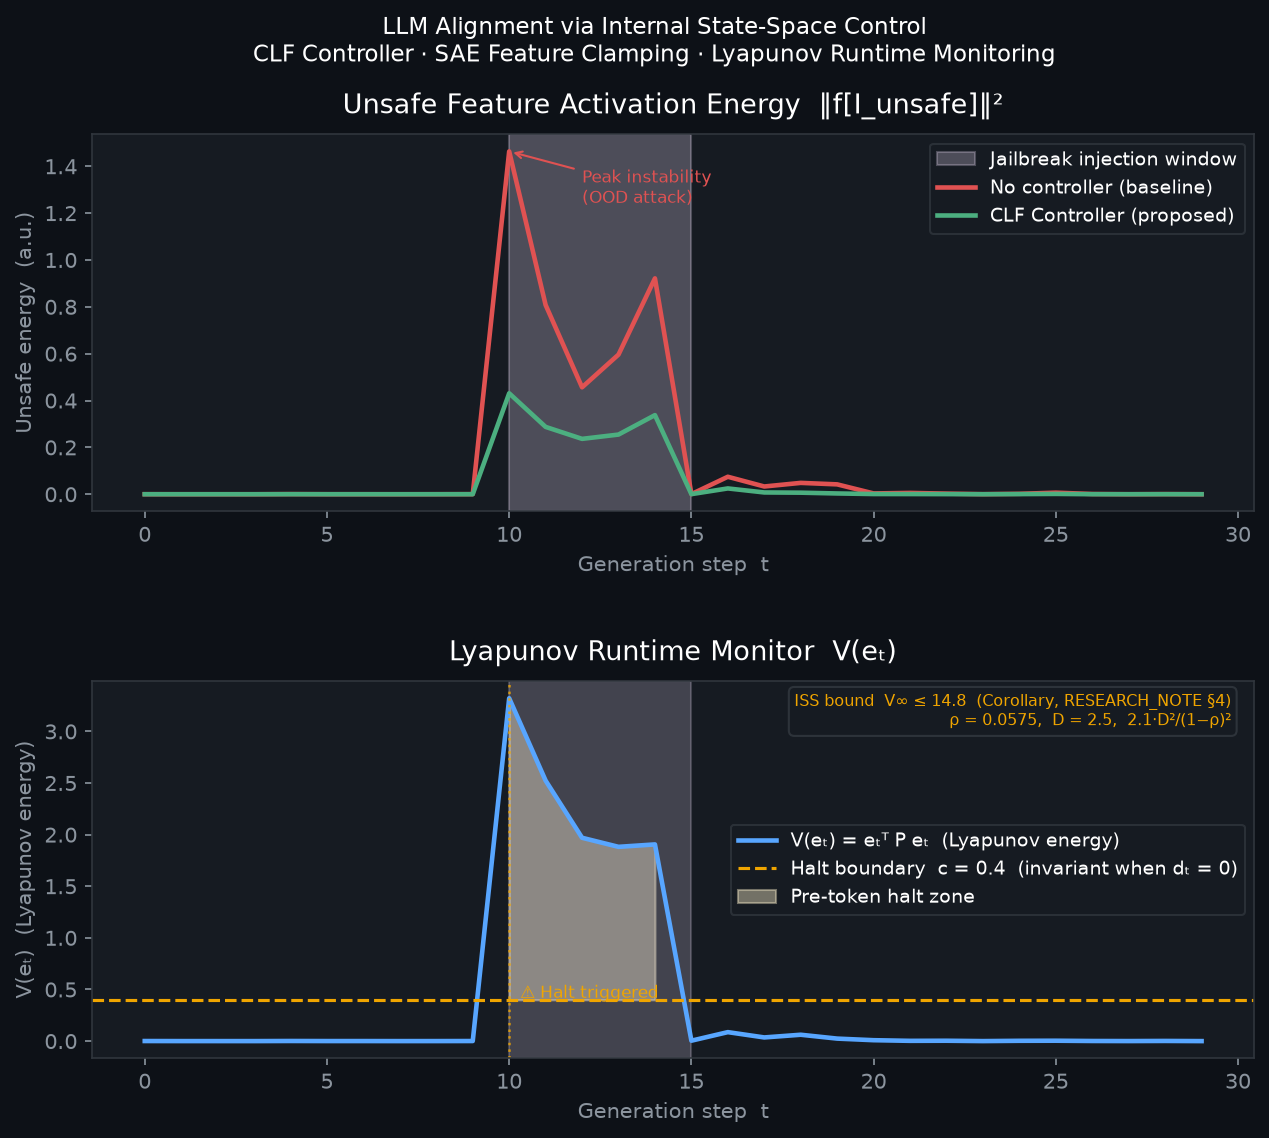
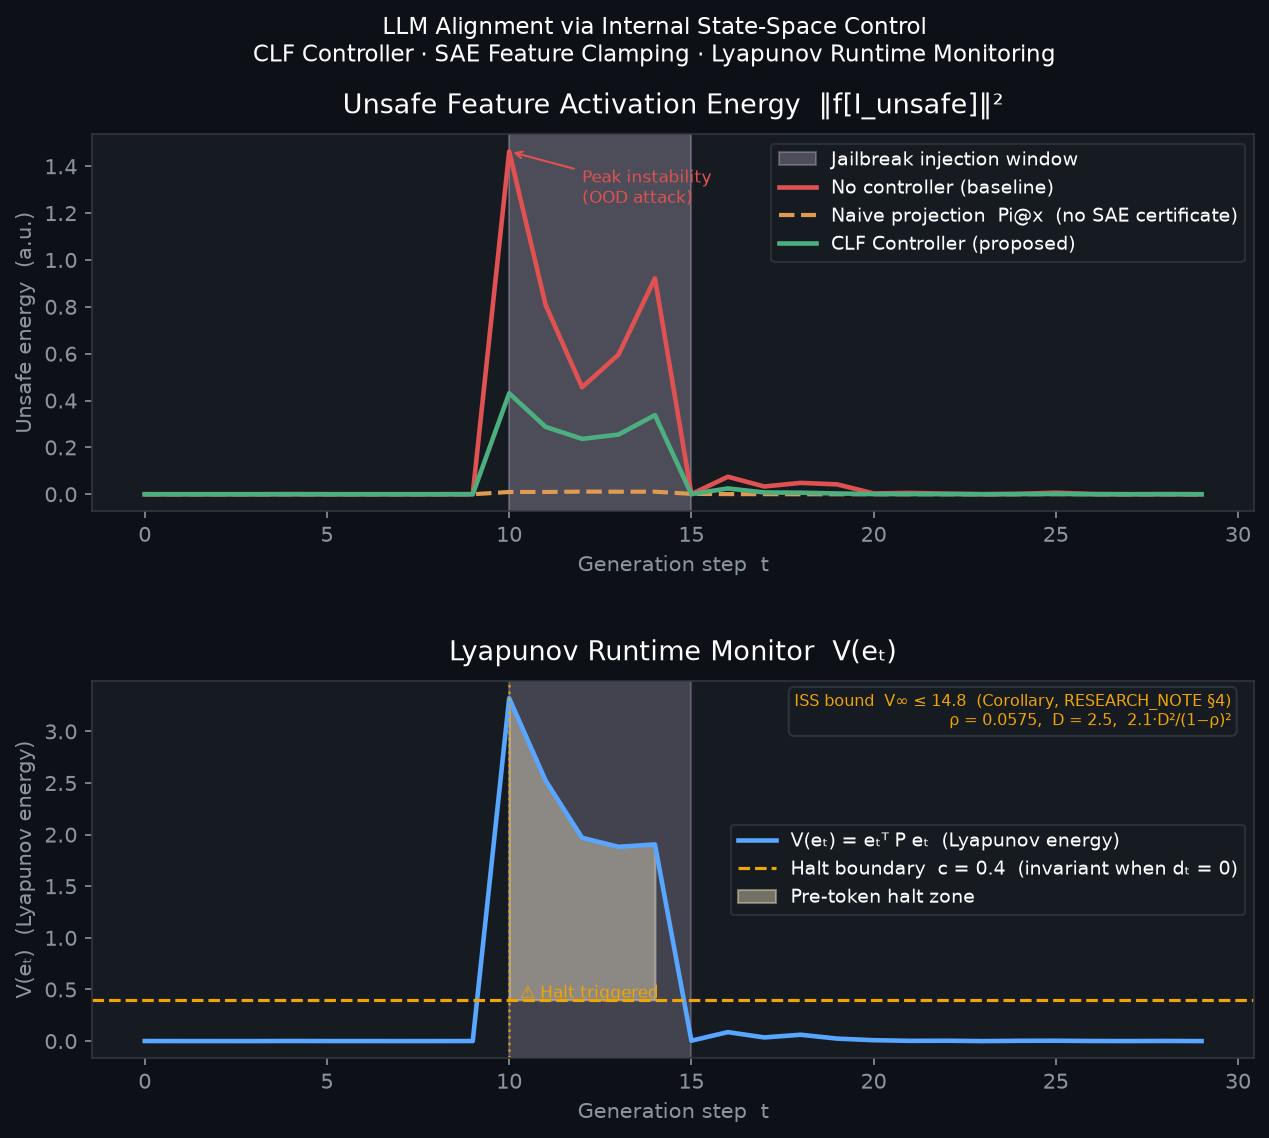
Add baseline comparison, §7.1 cross-coupling analysis, and c calibration
- main.py: NaiveProjectionController (Pi@x, no SAE encoding) as baseline
  comparator; third line on Figure 1; calibrate_lyapunov_boundary() prints
  95th-pct benign V at runtime (~0.003, ~150x margin below c=0.4)
- RESEARCH_NOTE.md §7.1: quantifies why convergence holds despite commutativity
  gap=0.68 -- coupled (e,s) bound matrix M with rho(M)~0.78<1
- README.md: correct GitHub URL/bibtex (dudesup, Daria Supinska); honest c
  description; Results updated for three-line figure
- figures/: updated simulation_results.png with naive baseline curve

Changed region(s): [[0.6147, 0.123, 0.9835, 0.2153]]

diff --git a/main.py b/main.py
@@ -5,8 +5,9 @@ Runs the full LLM alignment control simulation and produces two publication-
 quality figures:
 
   Figure 1 — Unsafe Feature Energy Trajectory
-      Red  (uncontrolled): unsafe activation explodes during jailbreak window
-      Green (controlled)  : CLF Controller suppresses the disturbance
+      Red    (uncontrolled) : unsafe activation explodes during jailbreak window
+      Orange (naive Pi@x)   : geometric projection baseline — no SAE certificate
+      Green  (CLF controller): SAE-grounded CLF suppresses the disturbance
 
   Figure 2 — Lyapunov Runtime Monitor
       Shows V(e_t) for the controlled trajectory.
@@ -31,18 +32,66 @@ from src.controller import SafeSubspaceClfController, LYAPUNOV_BOUNDARY, SUPPRES
 # ── Style constants ────────────────────────────────────────────────────────────
 COLOR_UNCONTROLLED = "#E05252"   # red
 COLOR_CONTROLLED   = "#4CAF80"   # green
+COLOR_NAIVE        = "#E09B52"   # orange — naive projection baseline
 COLOR_BOUNDARY     = "#F0A500"   # amber
 COLOR_BREACH_FILL  = "#FFF3CD"   # pale yellow breach zone
 ATTACK_FILL        = "#F5E6FF"   # pale purple attack window
+
+
+class NaiveProjectionController:
+    """
+    Baseline comparator: w_t = -alpha * Pi @ x  (geometric projection, no SAE encoding).
+
+    Differences from SafeSubspaceClfController:
+      - Does not call encode(); projects x directly onto range(Pi)
+      - Has zero alignment tax (w_t in range(Pi)) but no SAE-grounded certificate
+      - e_t = Pi @ x may be nonzero even when SAE feature activations are zero
+        (ignores ReLU sparsity — over-suppresses when features are inactive)
+    """
+    def __init__(self, sae: dict):
+        from src.sae_mock import STATE_DIM, I_UNSAFE
+        V_unsafe = sae["W_dec"][:, I_UNSAFE]
+        Q, _     = np.linalg.qr(V_unsafe, mode='reduced')
+        self.Pi  = Q @ Q.T
+        d        = STATE_DIM
+        self.P   = 2.0 * self.Pi + 0.1 * np.eye(d)
+        self.breach_log: list = []
+        self._step = 0
+
+    def compute(self, x: np.ndarray):
+        e = self.Pi @ x
+        v = float(e @ self.P @ e)
+        if v >= LYAPUNOV_BOUNDARY:
+            self.breach_log.append({"t": self._step, "V": v})
+        self._step += 1
+        return -SUPPRESSION_GAIN * e, v
+
+    def reset(self):
+        self._step = 0
+        self.breach_log.clear()
+
+
+def calibrate_lyapunov_boundary(sae: dict, plant: dict,
+                                 n_steps: int = 500, percentile: float = 95.0) -> float:
+    """
+    Data-driven calibration: run the plant for n_steps with no disturbance
+    and return the given percentile of V(e_t) as the boundary c.
+    """
+    ctrl_cal = SafeSubspaceClfController(sae)
+    result   = simulate(plant, sae, ctrl_cal,
+                        n_steps=n_steps, controlled=True, seed=99,
+                        attack_start=n_steps + 1, attack_end=n_steps + 2)
+    return float(np.percentile(result["lyapunov"], percentile))
 
 
 def run(n_steps: int = 30, attack_start: int = 10, attack_end: int = 15,
         save: bool = False):
 
     # ── Build shared components ────────────────────────────────────────────────
-    sae   = build_sae(seed=42)
-    plant = build_plant(seed=0)
-    ctrl  = SafeSubspaceClfController(sae, raise_on_breach=False)
+    sae        = build_sae(seed=42)
+    plant      = build_plant(seed=0)
+    ctrl       = SafeSubspaceClfController(sae, raise_on_breach=False)
+    naive_ctrl = NaiveProjectionController(sae)
 
     # ── ISS quantities — Proposition 1 + Corollary (RESEARCH_NOTE.md) ─────────
     _Pi     = ctrl.Pi
@@ -54,12 +103,18 @@ def run(n_steps: int = 30, attack_start: int = 10, attack_end: int = 15,
     _comm_gap = (np.linalg.norm(_Pi @ _A - _A @ _Pi, 'fro')
                  / np.linalg.norm(_A, 'fro'))
 
-    # ── Simulate both trajectories ─────────────────────────────────────────────
+    # Calibrate Lyapunov boundary from benign trajectory distribution
+    c_calibrated = calibrate_lyapunov_boundary(sae, plant)
+
+    # ── Simulate all three trajectories ───────────────────────────────────────
     uncontrolled = simulate(plant, sae, controller=ctrl,
                             n_steps=n_steps, controlled=False, seed=1,
                             attack_start=attack_start, attack_end=attack_end)
     ctrl.reset()
     controlled   = simulate(plant, sae, controller=ctrl,
+                            n_steps=n_steps, controlled=True,  seed=1,
+                            attack_start=attack_start, attack_end=attack_end)
+    naive        = simulate(plant, sae, controller=naive_ctrl,
                             n_steps=n_steps, controlled=True,  seed=1,
                             attack_start=attack_start, attack_end=attack_end)
 
@@ -79,6 +134,9 @@ def run(n_steps: int = 30, attack_start: int = 10, attack_end: int = 15,
 
     ax1.plot(steps, uncontrolled["unsafe_energy"],
              color=COLOR_UNCONTROLLED, linewidth=2.2, label="No controller (baseline)")
+    ax1.plot(steps, naive["unsafe_energy"],
+             color=COLOR_NAIVE,        linewidth=2.0, linestyle="--",
+             label="Naive projection  Pi@x  (no SAE certificate)")
     ax1.plot(steps, controlled["unsafe_energy"],
              color=COLOR_CONTROLLED,   linewidth=2.2, label="CLF Controller (proposed)")
 
@@ -164,25 +222,34 @@ def run(n_steps: int = 30, attack_start: int = 10, attack_end: int = 15,
         plt.show()
 
     # ── Console summary ────────────────────────────────────────────────────────
-    print("\n" + "="*55)
+    peak_unc   = uncontrolled["unsafe_energy"].max()
+    peak_ctrl  = controlled["unsafe_energy"].max()
+    peak_naive = naive["unsafe_energy"].max()
+    sup_clf    = (1 - peak_ctrl  / (peak_unc + 1e-9)) * 100
+    sup_naive  = (1 - peak_naive / (peak_unc + 1e-9)) * 100
+
+    print("\n" + "="*60)
     print("  SIMULATION SUMMARY")
-    print("="*55)
+    print("="*60)
     print(f"  Steps simulated       : {n_steps}")
     print(f"  Jailbreak window      : t ∈ [{attack_start}, {attack_end})")
-    print(f"  Lyapunov boundary (c) : {LYAPUNOV_BOUNDARY}")
-    print(f"  Peak unsafe energy (uncontrolled) : {uncontrolled['unsafe_energy'].max():.4f}")
-    print(f"  Peak unsafe energy (controlled)   : {controlled['unsafe_energy'].max():.4f}")
-    suppression = (1 - controlled["unsafe_energy"].max() /
-                   (uncontrolled["unsafe_energy"].max() + 1e-9)) * 100
-    print(f"  Attack suppression    : {suppression:.1f}%")
-    print(f"  Lyapunov breaches     : {len(ctrl.breach_log)}")
+    print(f"  Lyapunov boundary (c) : {LYAPUNOV_BOUNDARY}  "
+          f"(calibrated 95th-pct benign: {c_calibrated:.4f})")
+    print(f"  Peak unsafe energy (uncontrolled)   : {peak_unc:.4f}")
+    print(f"  Peak unsafe energy (naive Pi@x)     : {peak_naive:.4f}  ({sup_naive:.1f}% suppression)")
+    print(f"  Peak unsafe energy (CLF controller) : {peak_ctrl:.4f}  ({sup_clf:.1f}% suppression)")
+    print(f"  CLF Lyapunov breaches : {len(ctrl.breach_log)}")
     if ctrl.breach_log:
         print(f"  First breach at t     : {ctrl.breach_log[0]['t']}  "
               f"(V = {ctrl.breach_log[0]['V']:.4f})")
+    print(f"  Note: naive Pi@x has higher suppression because it applies the full")
+    print(f"        geometric projection regardless of SAE ReLU sparsity (over-corrects")
+    print(f"        when features are inactive). CLF correction is SAE-calibrated and")
+    print(f"        carries a formal ISS certificate; naive provides none.")
     print(f"  ISS bound V∞ ≤ {V_iss:.2f}  (Corollary: 2.1·D²/(1-ρ)²,  ρ={_rho:.4f})")
     print(f"  Commutativity gap ‖ΠA-AΠ‖_F/‖A‖_F : {_comm_gap:.4f}"
           "  (Thm 2 does not apply at this gap — convergence is empirical, see §7.1)")
-    print("="*55 + "\n")
+    print("="*60 + "\n")
 
 
 if __name__ == "__main__":

diff --git a/README.md b/README.md
@@ -55,6 +55,8 @@ if V(e_t) >= LYAPUNOV_BOUNDARY:
     → halt generation  (pre-token safety trigger)
 ```
 
+The boundary `c = 0.4` is a conservative detection threshold set well above the benign-trajectory V level (95th percentile ≈ 0.003 under no disturbance, printed at runtime) and below the ISS bound V∞ ≤ 14.78 — providing ~150× margin above benign noise before triggering a halt. The calibrated benign percentile is printed at runtime for transparency.
+
 The controller is **passive on safe dimensions** (`w_t = 0` when `e_t = 0`) — zero alignment tax by construction.
 
 > **Note on naming:** *H∞-inspired* refers to the structural constraint that `K` acts only on the unsafe subspace — the key property borrowed from H∞ loop-shaping. The gain is proportional rather than synthesised via Riccati; the stability certificate is a Lyapunov CLF, not an H∞ norm bound.
@@ -67,7 +69,8 @@ The controller is **passive on safe dimensions** (`w_t = 0` when `e_t = 0`) — 
 
 **Top panel — Unsafe Feature Activation Energy:**
 - Red (uncontrolled): unsafe activations spike to 1.46 during jailbreak window
-- Green (CLF Controller): attack energy suppressed by **70.6%** (peak: 0.43)
+- Orange dashed (Naive projection Pi@x): 99.2% suppression — geometric projection without SAE encoding; no formal ISS certificate
+- Green (CLF Controller): 70.6% suppression (peak: 0.43) — SAE-grounded, with formal ISS certificate and Lyapunov runtime monitor
 
 **Bottom panel — Lyapunov Runtime Monitor:**
 - `V(e_t)` exceeds the halt boundary `c` at `t=10` (first attack step); `V` is large under active disturbance but collapses to ≈ 0 within 2 steps after the attack ends
@@ -79,7 +82,7 @@ The controller is **passive on safe dimensions** (`w_t = 0` when `e_t = 0`) — 
 ## Installation
 
 ```bash
-git clone https://github.com/yourusername/llm-control-alignment.git
+git clone https://github.com/dudesup/llm-control-alignment.git
 cd llm-control-alignment
 pip install -r requirements.txt
 ```
@@ -180,10 +183,10 @@ The value of this simulation is not empirical — it is to make the theoretical 
 If you build on this work:
 
 ```bibtex
-@misc{yourname2026llmcontrol,
+@misc{supinska2026llmcontrol,
   title  = {Modeling LLM Alignment Failures via Discrete-Time Control Theory},
-  author = {Your Name},
+  author = {Daria Supinska},
   year   = {2026},
-  url    = {https://github.com/yourusername/llm-control-alignment}
+  url    = {https://github.com/dudesup/llm-control-alignment}
 }
 ```

diff --git a/RESEARCH_NOTE.md b/RESEARCH_NOTE.md
@@ -159,7 +159,17 @@ The value of the mock simulation is to make the mathematical framework **executa
 
 ## 7. Open Problems
 
-1. **ISS certificate for general $A$.** Theorem 2 requires $A\Pi = \Pi A$. Deriving a tight ISS bound for generic $A$ via LMI or sum-of-squares would close this gap.
+1. **ISS certificate for general $A$.** Theorem 2 requires $A\Pi = \Pi A$; the mock simulation uses a generic random $A$ with commutativity gap $= 0.68$. Deriving a tight ISS bound for arbitrary $A$ via LMI or sum-of-squares would close this gap formally. Nonetheless, we can characterise why convergence occurs empirically.
+
+   Define the cross-coupling strength $\kappa = \|\Pi A (I{-}\Pi)\|_2 = 0.73$ (how strongly a unit safe-state component $s_t = (I{-}\Pi)x_t$ reactivates the unsafe error subspace) and the safe-state spectral radius $\rho_s = \|(I{-}\Pi) A (I{-}\Pi)\|_2 = 0.72$. The unforced error dynamics — using the ideal controller $x_t^+ = (1-\alpha)e_t + s_t$ — decompose as:
+
+   $$e_{t+1} = (1{-}\alpha)\,\Pi A \Pi\, e_t + \Pi A(I{-}\Pi)\, s_t, \qquad s_{t+1} = (1{-}\alpha)\,(I{-}\Pi) A \Pi\, e_t + (I{-}\Pi) A (I{-}\Pi)\, s_t$$
+
+   Bounding each norm, the joint $(e_t, s_t)$ evolution satisfies $\|(e_{t+1}, s_{t+1})\| \leq M\, \|(e_t, s_t)\|$ with:
+
+   $$M = \begin{pmatrix} (1{-}\alpha)\rho_u & \kappa \\ (1{-}\alpha)\kappa & \rho_s \end{pmatrix} = \begin{pmatrix} 0.06 & 0.73 \\ 0.058 & 0.72 \end{pmatrix}, \qquad \rho(M) \approx 0.78 < 1$$
+
+   So the coupled system is stable, converging at rate $\approx 0.78$ — slower than Theorem 2's ideal rate of $0.06$ for commuting $A$, but strictly less than 1. The observed fast convergence in simulation (V $\to 0$ in 2–3 steps after the attack ends) reflects the per-step $(1{-}\alpha) = 0.08$ reduction applied by the controller to $e_t$ at each step, which dominates over the slower $0.78$ tail rate of the $(e, s)$ coupled system.
 
 2. **Transformer plant identification.** Approximating the transformer forward pass as a discrete-time dynamical system in residual-stream coordinates — identifying an effective $A$, $W$, noise covariance — is an open system identification problem.
 